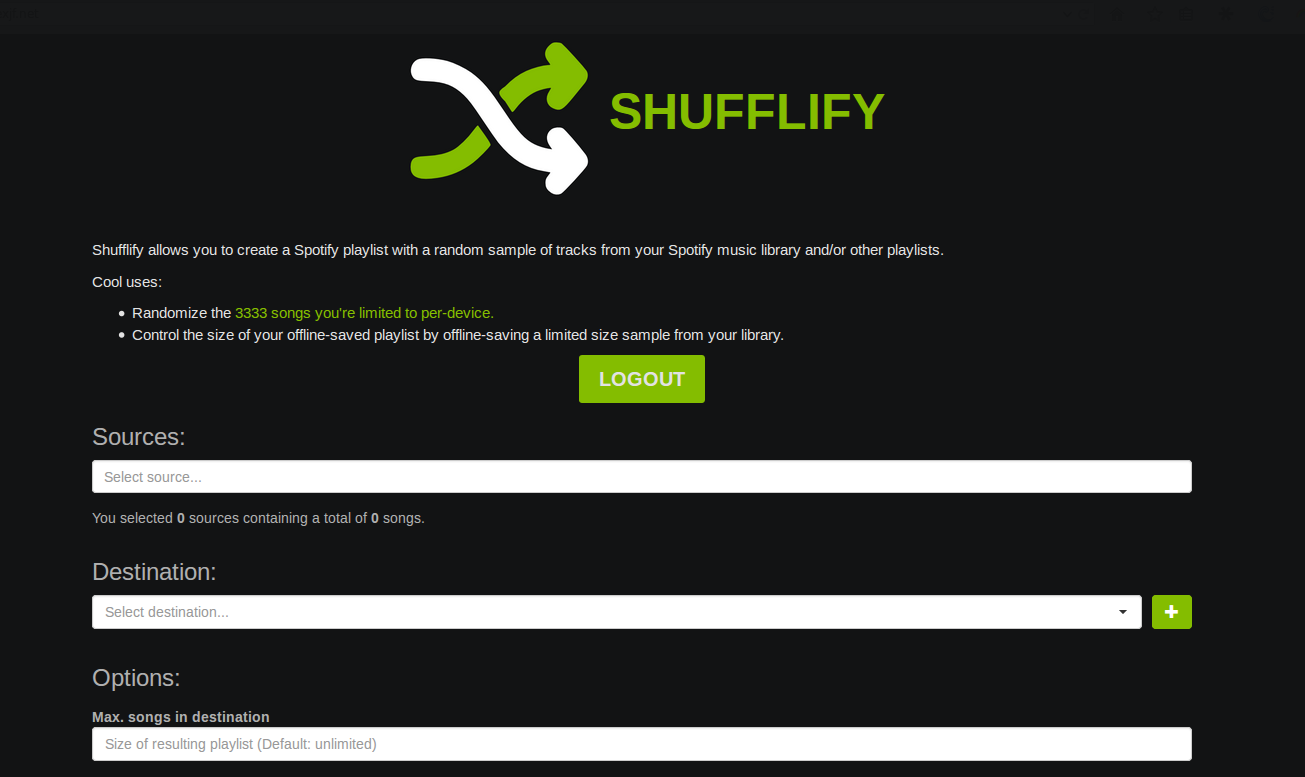
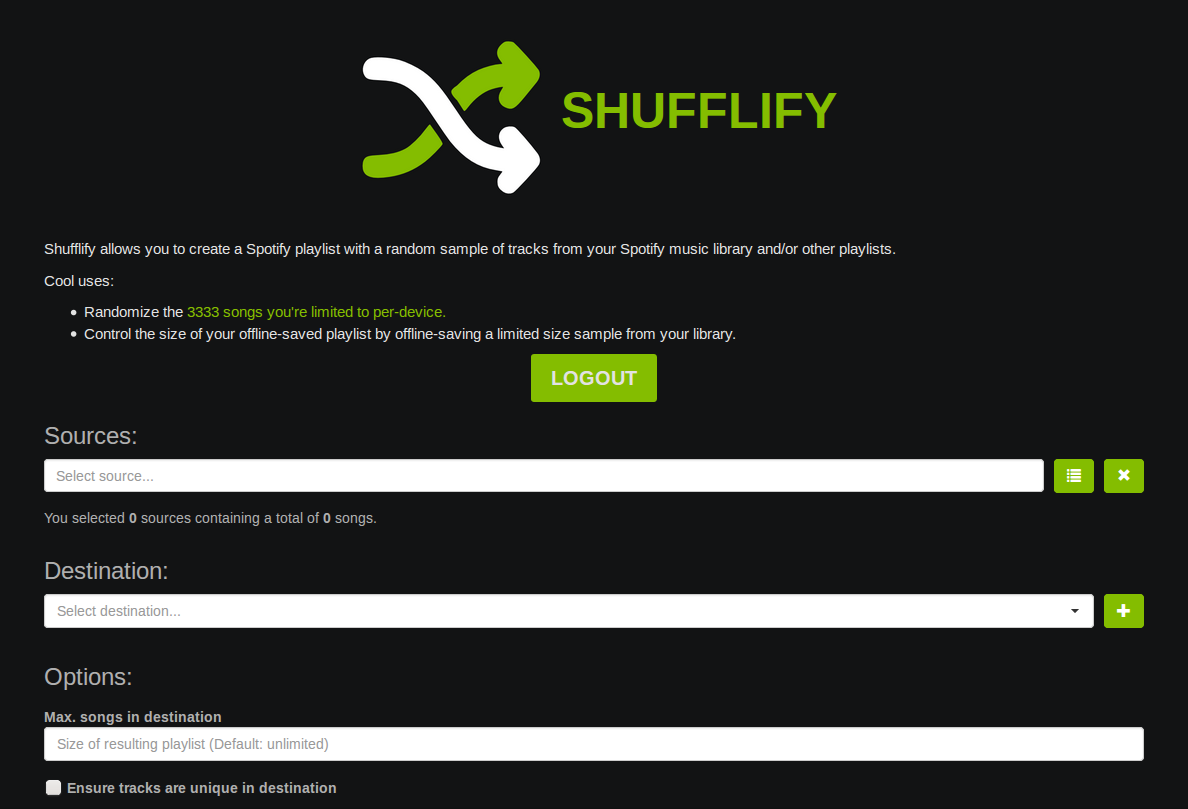
Updated shufflify screenshots and description.

diff --git a/content/projects/web/shufflify/project.md b/content/projects/web/shufflify/project.md
@@ -24,6 +24,11 @@ Cool use cases:
   track sample from your music library.
 * Limit the size of your offline-saved collection by offline-saving a random
   limited-size sample from your music library.
+* Shuffle the order of the tracks in a playlist in a truly random way (not
+  according to Spotify's sometimes weird randomness that plays the same track
+  several times).
+* Join several playlists together without duplicates or remove duplicates from
+  a single playlist.
 
 [Shufflify website](http://shufflify.alexjf.net)  
 [Github](https://github.com/AlexJF/shufflify)
